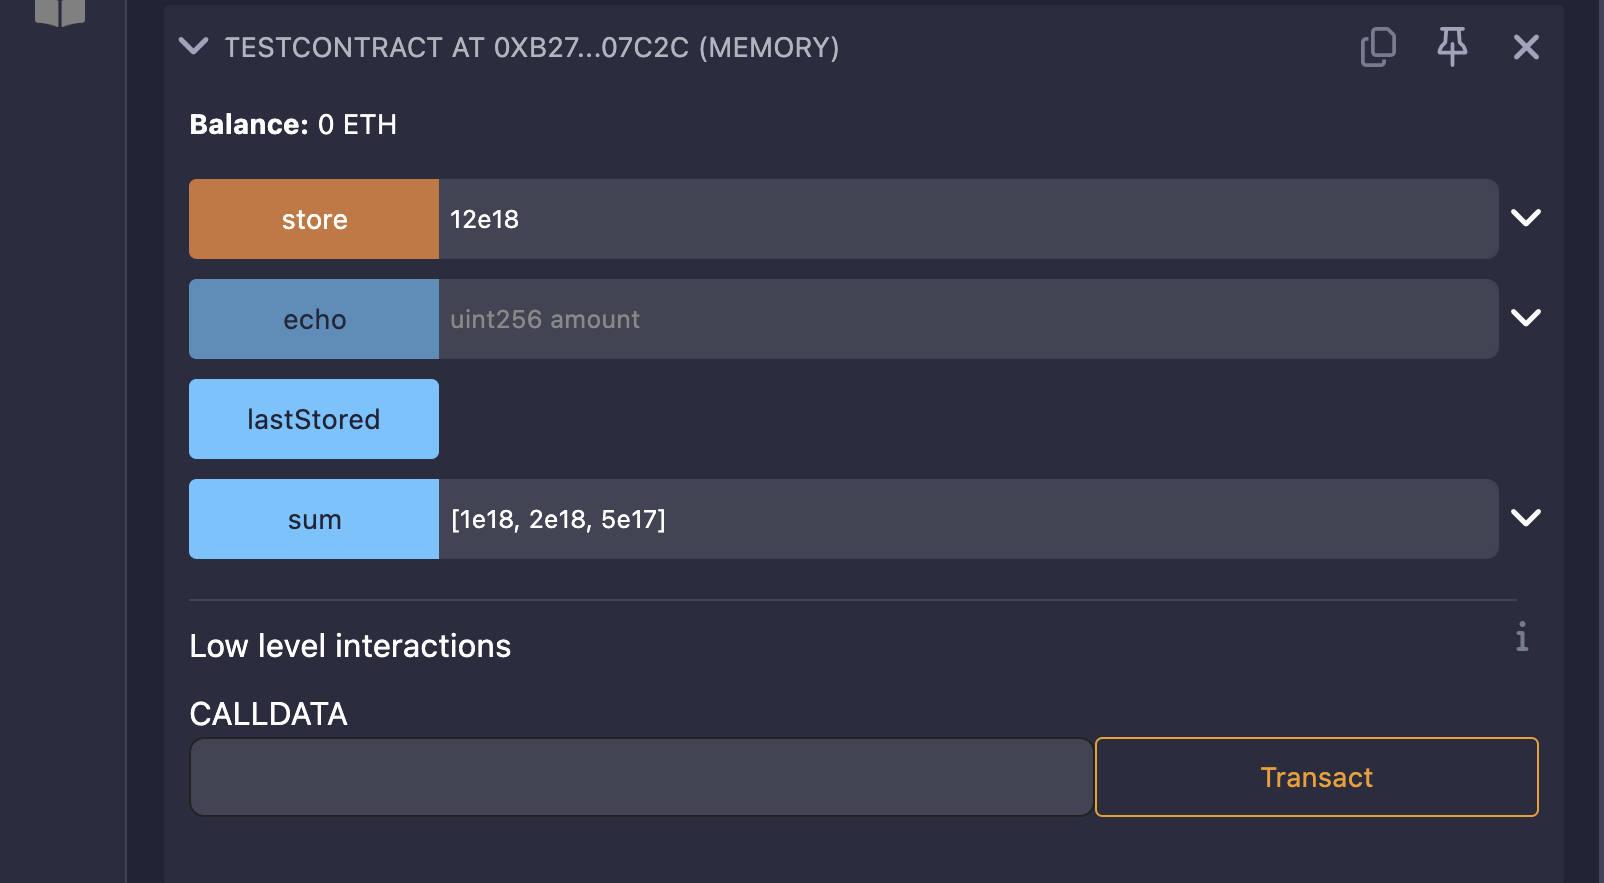
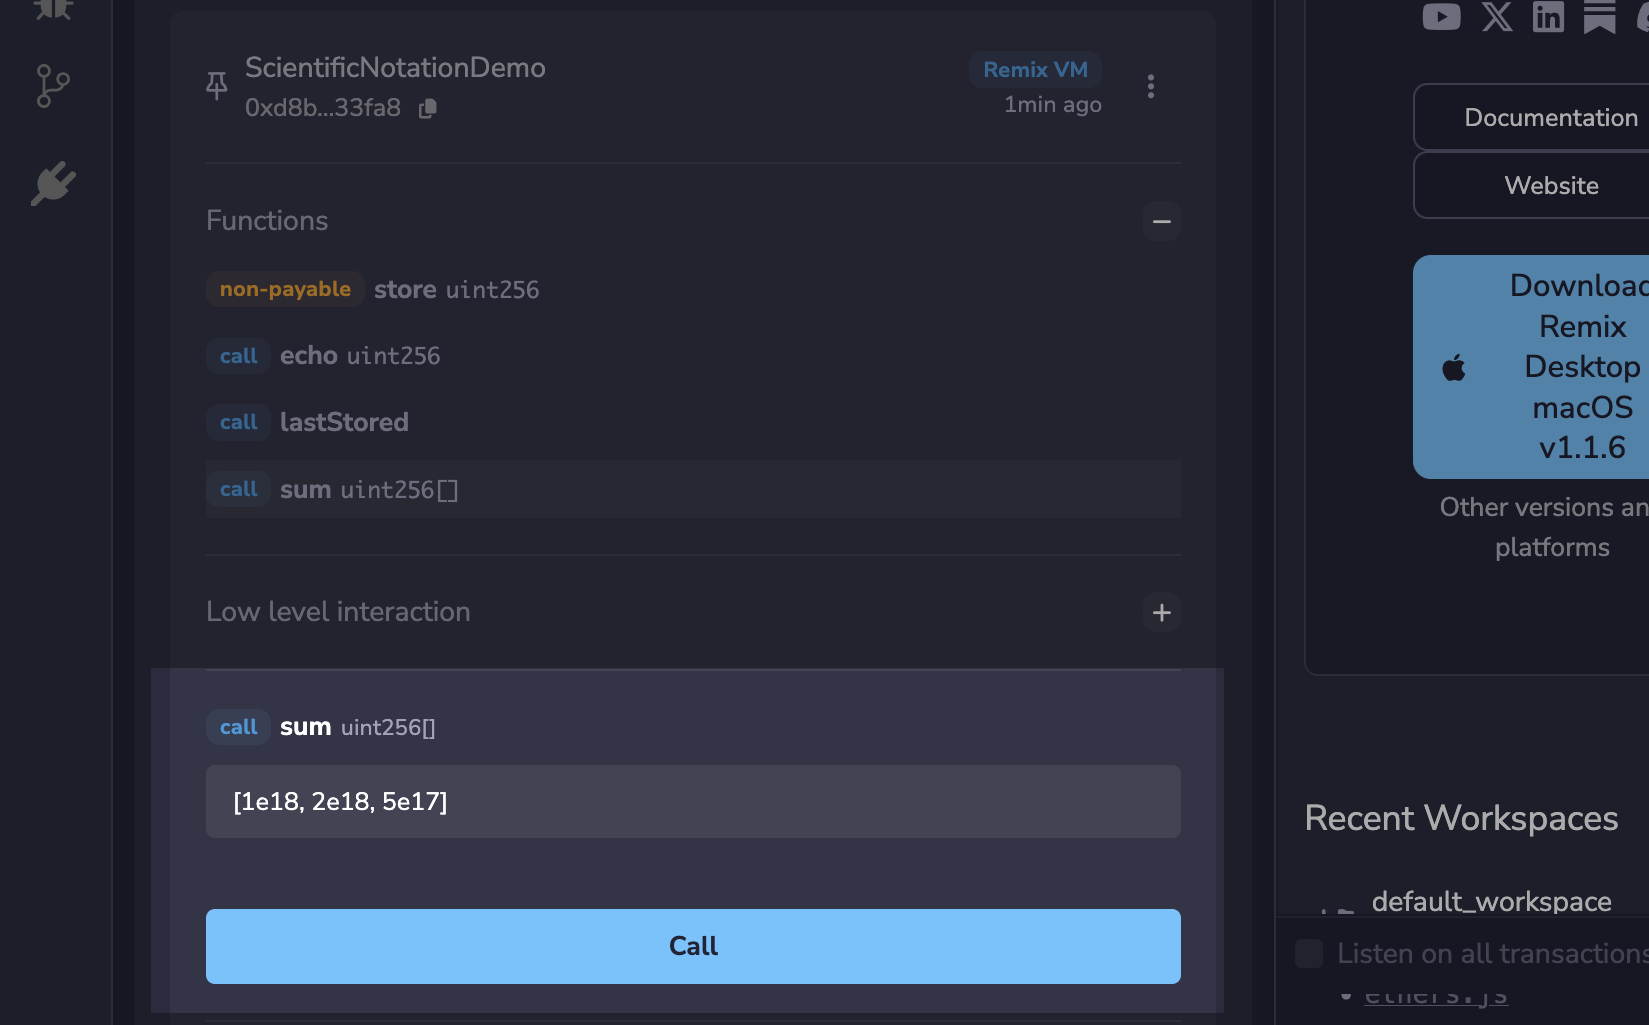
more updates

diff --git a/docs/udapp.rst b/docs/udapp.rst
@@ -58,38 +58,25 @@ A function has two views - the collapsed and the expanded view, which is visible
 .. image:: images/udapp/a-udapp-inputs.png
    :alt: Inputting Parameters in function calls
 
-Inputting parameters in the collapsed view
-^^^^^^^^^^^^^^^^^^^^^^^^^^^^^^^^^^^^^^^^^^
 
-In the collapsed view:
+Clicking the function brings you to the expanded view, where you can input the parameters required for the function.
 
-- Parameters are separated by commas.
-
-In the example above the "delegate" function has 3 parameters.
-
-Inputting parameters in the expanded view
-^^^^^^^^^^^^^^^^^^^^^^^^^^^^^^^^^^^^^^^^^
-
-Clicking the 'down' caret brings you to the expanded view - where parameters are input one at a time.
-
-.. image:: images/udapp/a-udapp-multi-param-man.png
-   :alt: Expanded view with parameters input one at a time
 
 Low level interactions
 ----------------------
 
-Low level interactions are used to send funds or calldata or funds & calldata to a contract through the **receive()** or **fallback()** function. Typically, you should only need to implement the fallback function if you are following an upgrade or proxy pattern.
+Low level interactions are used to send funds or calldata or funds & calldata to a contract through the ``receive()`` or ``fallback()`` function. Typically, you should only need to implement the fallback function if you are following an upgrade or proxy pattern.
 
-The low level interactions section is below the functions in each deployed contract.
+To find the low level interactions section, you have to click the contract from the Deployed Contracts section, then click the plus icon with the label "Low level interaction". 
 
-.. image:: images/udapp/a-deploy-run-open-instance.png
+.. image:: images/udapp/low-level-interaction.png
    :alt: Low level interactions section
 
 .. note::
 
-   If you are executing a plain Ether transfer to a contract, you need to have the receive() function in your contract. If your contract has been deployed and you want to send it funds, you would input the amount of Ether or Wei etc. (see **A** in graphic below), and then input **NOTHING** in the calldata field of **Low level interactions** (see **B** in graphic) and click the Transact button (see **C** in graphic below).
+   If you are executing a plain Ether transfer to a contract, you need to have the ``receive()`` function in your contract. If your contract has been deployed and you want to send it funds, you would input the amount of Ether or Wei etc. (see **A** in graphic below), and then input **NOTHING** in the calldata field of **Low level interactions** (see **B** in graphic) and click the Transact button (see **C** in graphic below).
 
-.. image:: images/a-receive-fun.png
+.. image:: images/udapp/receive-function.png
    :alt: Receive function example
 
 - If you are sending calldata to your contract with Ether, then you need to use the fallback() function and have it with the state mutability of **payable**.
